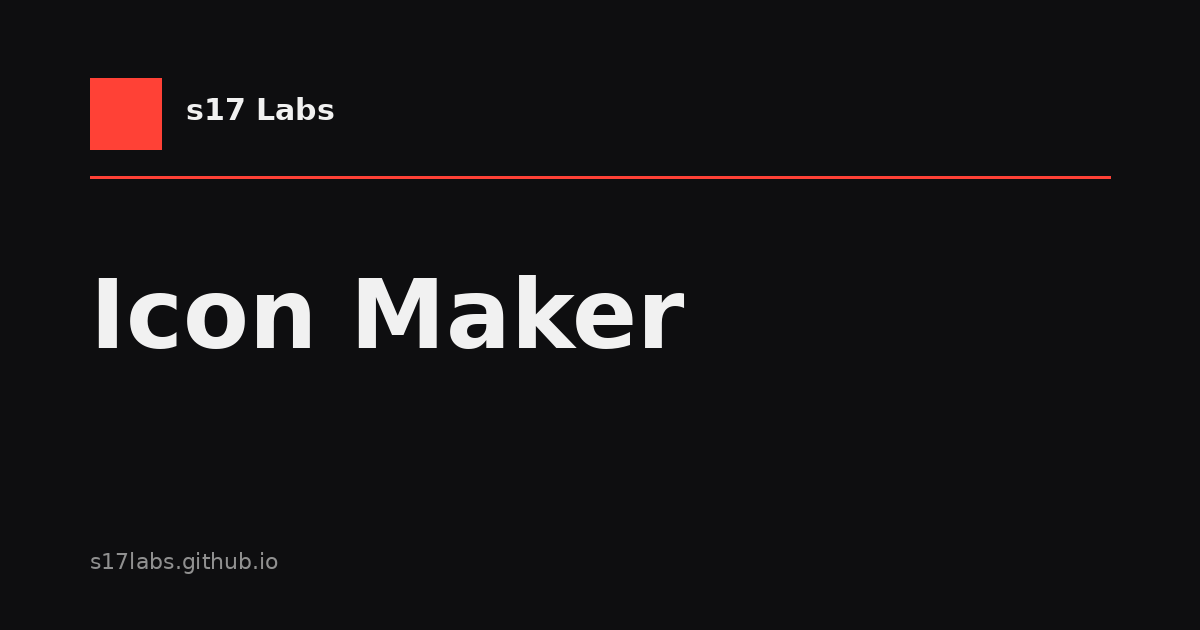
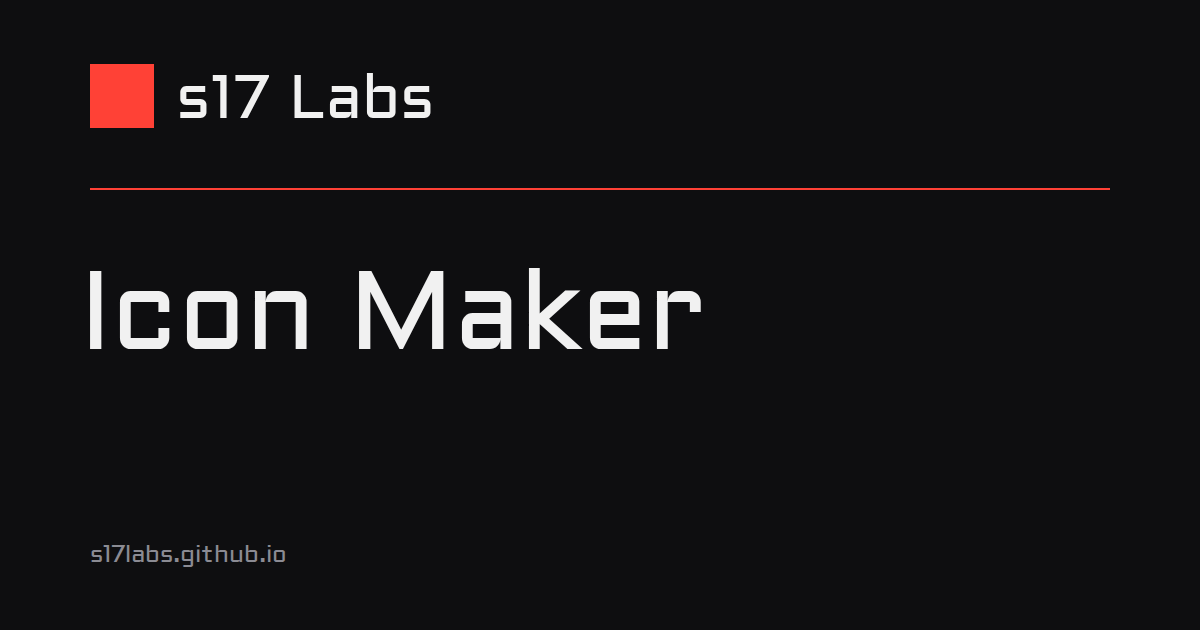
style(site): redraw social preview cards around the brand lockup

diff --git a/AGENTS.md b/AGENTS.md
@@ -17,9 +17,12 @@ npm install         # install dependencies
 npm run dev         # dev server
 npm run build       # production build to dist/
 npm run preview     # preview the production build
-npx astro check     # typecheck .astro/.ts (via @astrojs/check; no test/lint scripts exist)
+npx astro check     # typecheck .astro/.ts (via @astrojs/check; no lint script exists)
+npm test            # unit tests for the pure tool logic
+npm run og          # regenerate the social preview cards in public/og/
 ```
 
+- `npm run og` needs a local Chrome/Chromium (override with `CHROME=/path/to/chrome`). Add `--sheet` to also write a contact sheet of every card — see `scripts/og-preview.mjs` for the layout grid you tune.
 - CI is `.github/workflows/deploy.yml`: on every push to `main` it builds via `withastro/action@v3` (Node 22) and deploys `dist/` to GitHub Pages with `actions/deploy-pages@v4`. It also supports `workflow_dispatch`.
 - Deploy fires only on pushes to `main` — there are no checks on PRs. Run `npm run build` locally before merging so you do not deploy a broken site.
 
@@ -45,7 +48,8 @@ src/
   styles/design.css           # /design/ page styles (ds- namespaced, never competes)
   styles/tools/               # per-tool overrides (icon-maker.css, icon-maker-fonts.css)
   icons.ts                    # Font Awesome icon definitions
-public/                       # served as-is: fonts/ (Aldrich + icon-maker bundles), robots.txt, link_preview.png
+public/                       # served as-is: fonts/ (Aldrich + icon-maker bundles), og/ (per-tool social previews), icons/ (app icons), robots.txt, link_preview.png
+scripts/og-preview.mjs        # regenerates public/og/*.png from one card template (npm run og)
 ```
 
 Key patterns:
